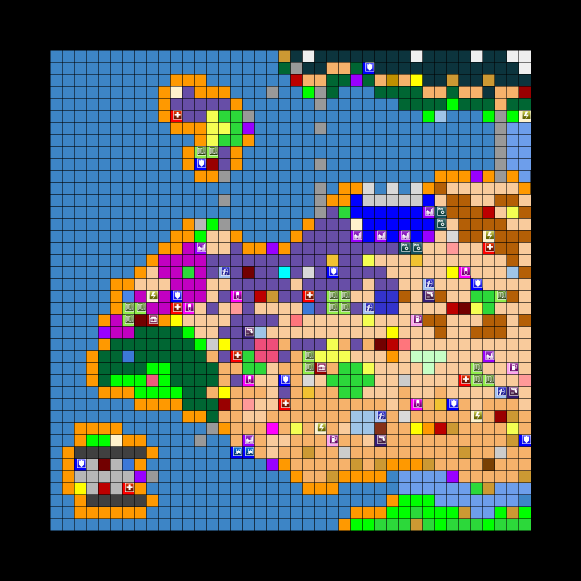
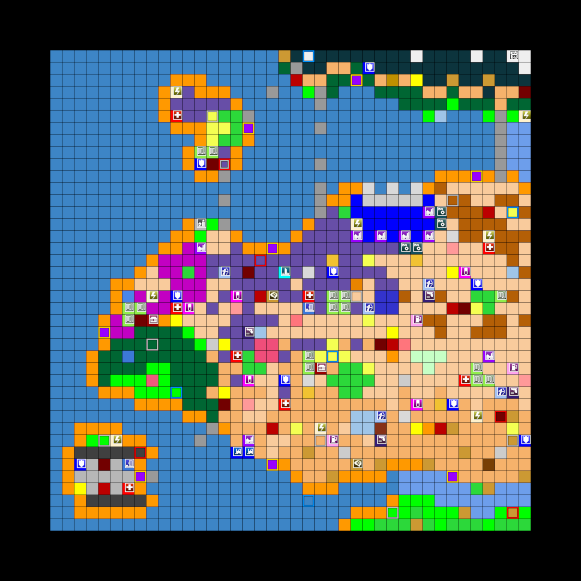
Halloween update-Valhalla

Changed region(s): [[0.0929, 0.062, 0.9294, 0.9294]]

diff --git a/script.js b/script.js
@@ -2551,7 +2551,7 @@ function initializeTileNames() {
 	registerTileNames(26,17,0,"Halleck Shipping Solutions");
 	registerTileNames(26,18,0,"Zentricity Inc.");
 	registerTileNames(26,19,0,"A to Z Executive Search");
-	registerTileNames(26,20,0,"Office Building");
+	registerTileNames(26,20,0,"Haunted Haberdashery");
 	registerTileNames(26,21,0,"Apartment Building");
 	registerTileNames(26,22,0,"Office Building");
 	registerTileNames(26,23,0,"Apartment Building");
@@ -7945,7 +7945,7 @@ function initializeTileTypes() {
 	registerTileTypes(26,17,0,"Office Building");
 	registerTileTypes(26,18,0,"Office Building");
 	registerTileTypes(26,19,0,"Office Building");
-	registerTileTypes(26,20,0,"Office Building");
+	registerTileTypes(26,20,0,"Holloween Costume Shop");
 	registerTileTypes(26,21,0,"Apartment Building");
 	registerTileTypes(26,22,0,"Office Building");
 	registerTileTypes(26,23,0,"Apartment Building");
